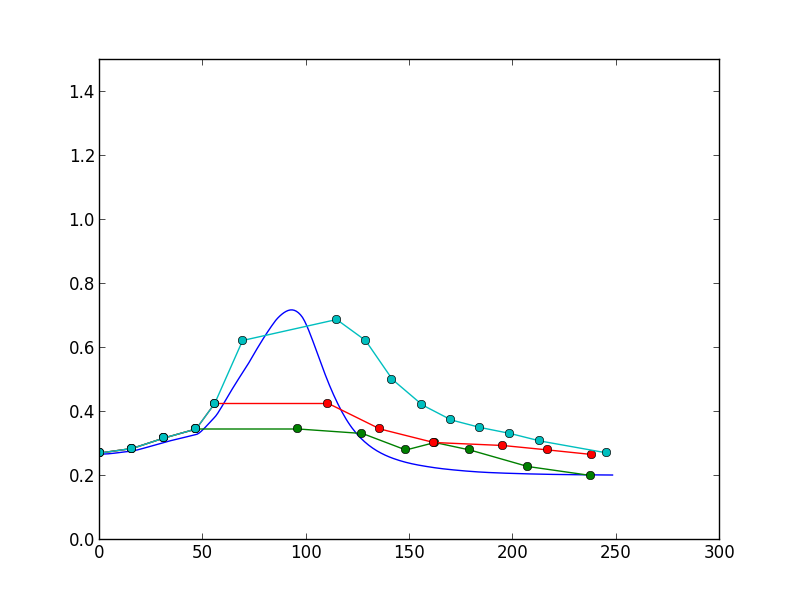
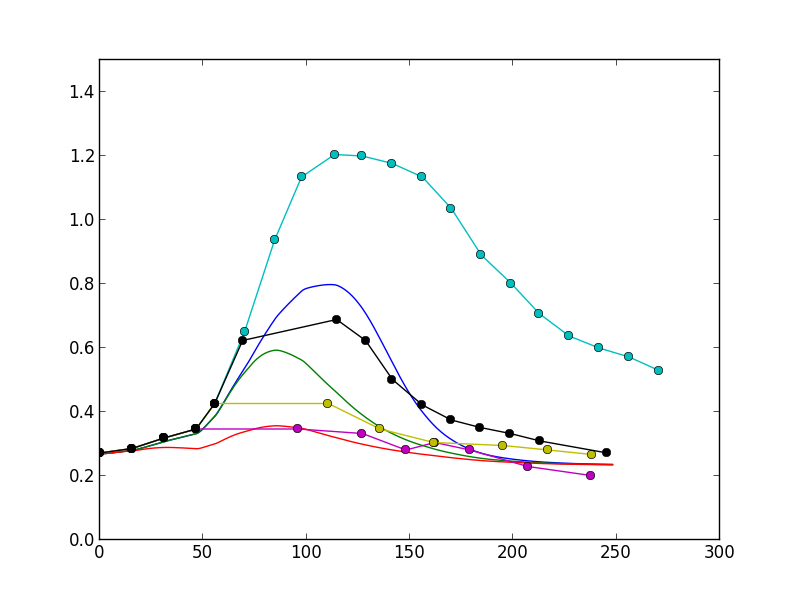
added working code to optimize parameters with scipy

diff --git a/omm.py b/omm.py
@@ -44,29 +44,35 @@ e_prod = 1.3
 D_e = 0.01
 
 r25_k = 1.0
-N_25 = 0.2
+N_25 = 0.1
 n25 = 4.0
 
 r34_k = 1.0
-N_34 = 0.2
+N_34 = 0.1
 n34 = 4.0
 
-params = [y_k,y_basal,e_k,E,ne,D_e,r34_k,Y,ny]
+params = [y_k,y_basal,Y,ny,e_k,E,ne,e_prod,D_e,r25_k,N_25,n25,r34_k,N_34,n34]
 
 nmol = 4
 
 # The function that determines the rates of change, which we solve to integrate
 def f(y, t, nmol, params):
     # get the parameters back out to a usable form
-    #y_k = params[0]
-    #y_basal = params[1]
-    #e_k = params[2]
-    #E = params[3]
-    #ne = params[4]
-    #D_e = params[5]
-    #r34_k = params[6]
-    #Y = params[7]
-    #ny = params[8] 
+    y_k = params[0]
+    y_basal = params[1]
+    Y = params[2]
+    ny = params[3]
+    e_k = params[4]
+    E = params[5]
+    ne = params[6]
+    e_prod = params[7]
+    D_e = params[8]
+    r25_k = params[9]
+    N_25 = params[10]
+    n25 = params[11]
+    r34_k = params[12]
+    N_34 = params[13]
+    n34 = params[14] 
     
     #reshape flat array into shape (nmol,5)
     c = np.reshape(y,[nmol,5])
@@ -79,13 +85,14 @@ def f(y, t, nmol, params):
     R_34 = c[3,:]
 
     # rates of change for yan
+    # add repression by r25 and r34 here
     xprime[0,:] = y_k * (y_basal + (1-hill(egfr,E,ne))*(1-hill(yan,Y,ny))*(progfxn(t)-y_basal) - yan)
     # rates of change for egfr
     xprime[1,:] = e_k * (e_prod*(sens+R_25+R_34) - egfr) + D_e*oneDdiff(egfr)
     # rate of change for R_25
-    xprime[2,:] = r25_k * (rough*hill(egfr,N_25,n25)*(1-hill(yan,0.5*Y,ny)) - 1.0*R_25)
+    xprime[2,:] = r25_k * (rough*hill(egfr,N_25,n25)*(1-hill(yan,Y,ny)) - 1.0*R_25)
     # rate of change for R_34
-    xprime[3,:] = r34_k * (hill(egfr,N_34,n34)*(1-hill(yan,0.5*Y,ny))*(1-hill(rough+sens,0.1,2.0)) - 1.0*R_34)
+    xprime[3,:] = r34_k * (hill(egfr,N_34,n34)*(1-hill(yan,Y,ny))*(1-hill(rough+sens,0.1,2.0)) - 1.0*R_34)
     return xprime.flatten()
 
 #set up precluster
@@ -108,7 +115,9 @@ print "done"
 # plot simulation and data
 plt.clf()
 plt.plot(timerange,resols[:,0,0])
-#plt.plot(progs[0],progs[1], marker = 'o')
+plt.plot(timerange,resols[:,0,1])
+plt.plot(timerange,resols[:,0,2])
+plt.plot(progs[0],progs[1], marker = 'o')
 plt.plot(r8s[0],r8s[1], marker = 'o')
 plt.plot(r25s[0],r25s[1], marker = 'o')
 plt.plot(r34s[0],r34s[1], marker = 'o')
@@ -116,35 +125,41 @@ plt.axis([0,300,0,1.5])
 plt.savefig("fig.png")
 
 
+# parameter tuning
 
+t_r8s = r8s.transpose()
+t_r25s = r25s.transpose()
+t_r34s = r34s.transpose()
 
-'''
-# emcee parameter tuning
+res = None
 
-# The function we are trying to minimize
-# Takes yan data into account as well as biology
-# (e.g. pnt should be high in differentiated cells, correct markers in place)
-def invrmse(params,nmol,progs):
+def err_fxn(params,nmol):
     lparams = [float(val) for val in params]
     args = tuple([nmol,lparams])
     sol = odeint(f,precluster.flatten(),timerange,args)
     resols = sol.reshape([len(timerange),nmol,5])
     error = 0
     # calculate error in yan data
-    for datapoint in progs:
+    for datapoint in t_r8s:
         delta = resols[datapoint[0],0,2] - datapoint[1]
+        error += delta**2
+    for datapoint in t_r25s:
+        delta = resols[datapoint[0],0,1] - datapoint[1]
+        error += delta**2
+    for datapoint in t_r34s:
+        delta = resols[datapoint[0],0,0] - datapoint[1]
         error += delta**2
     return error
 
-# set up sampler parameters
-ndim,nwalkers = 6, 100
-
-#inital vector of the system
-p0 = [np.random.normal(val,0.1*val) for val in params]
-
-sampler = emcee.EnsembleSampler(nwalkers, ndim, invrmse, args=[nmol,progs], threads = 2, live_dangerously = False)
+def callback(ps):
+    res = ps
 
 # trying scipy.optimize.minimize
 
-progprod = interplolate
-'''
+res = spopt(err_fxn,params,
+            args=[nmol],
+            method = "L-BFGS-B",
+            bounds = [(0,None) for i in xrange(0,15)],
+            tol = 0.075,
+            options = {"maxiter":3,"disp":True},
+            callback = callback)
